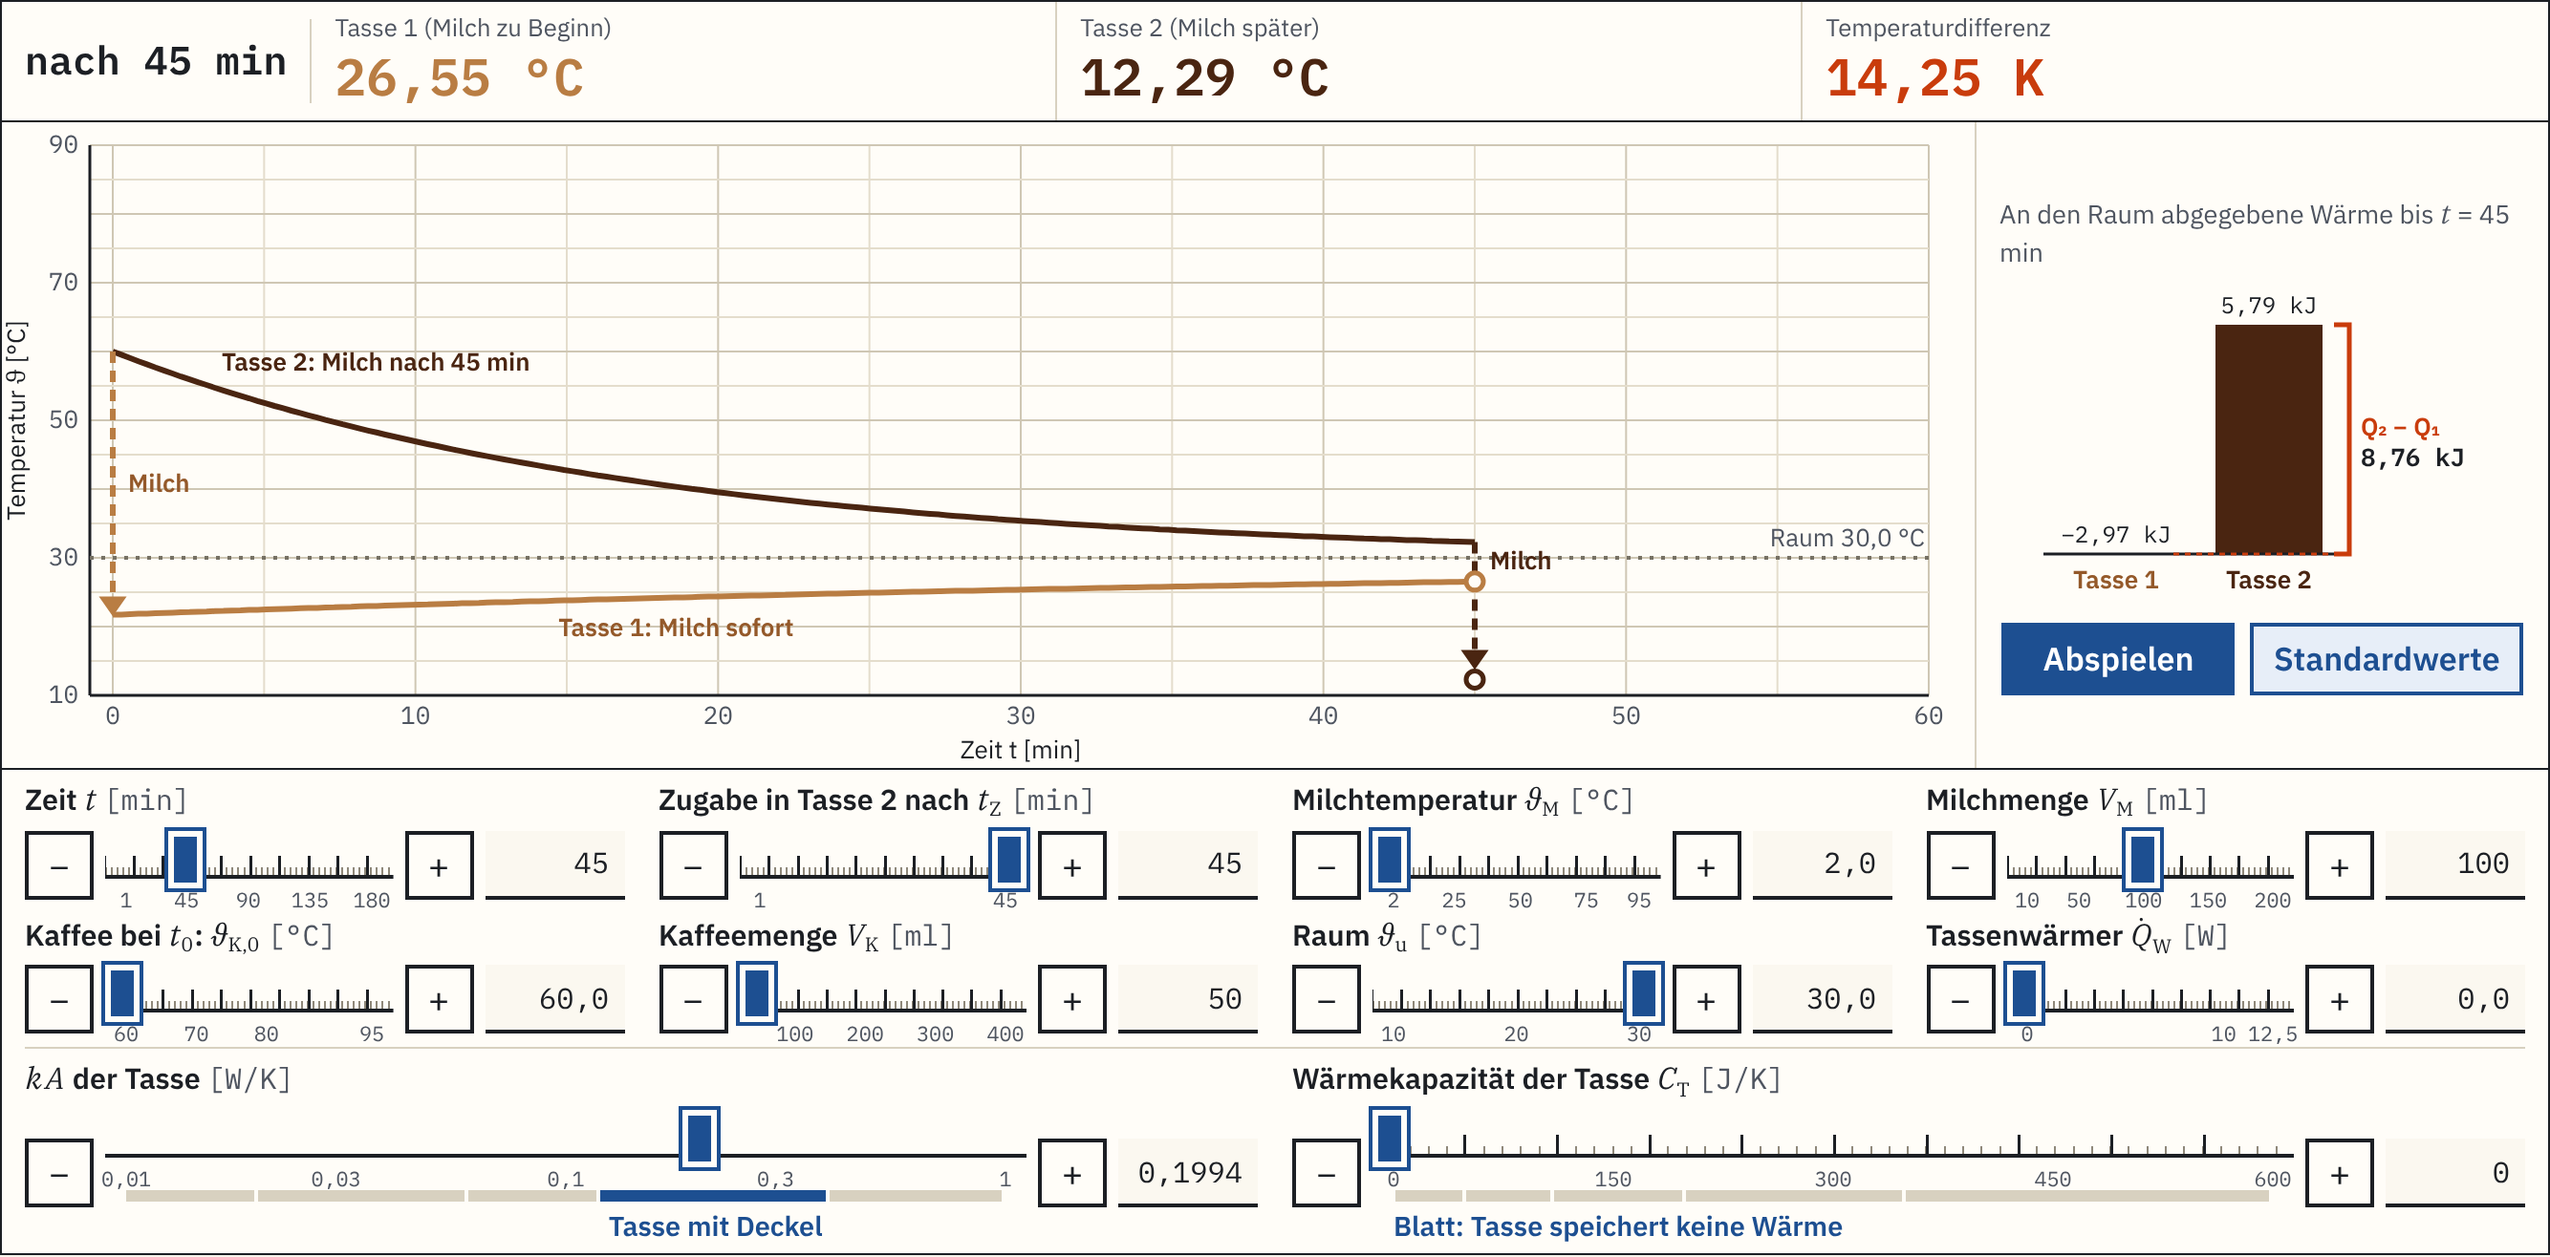
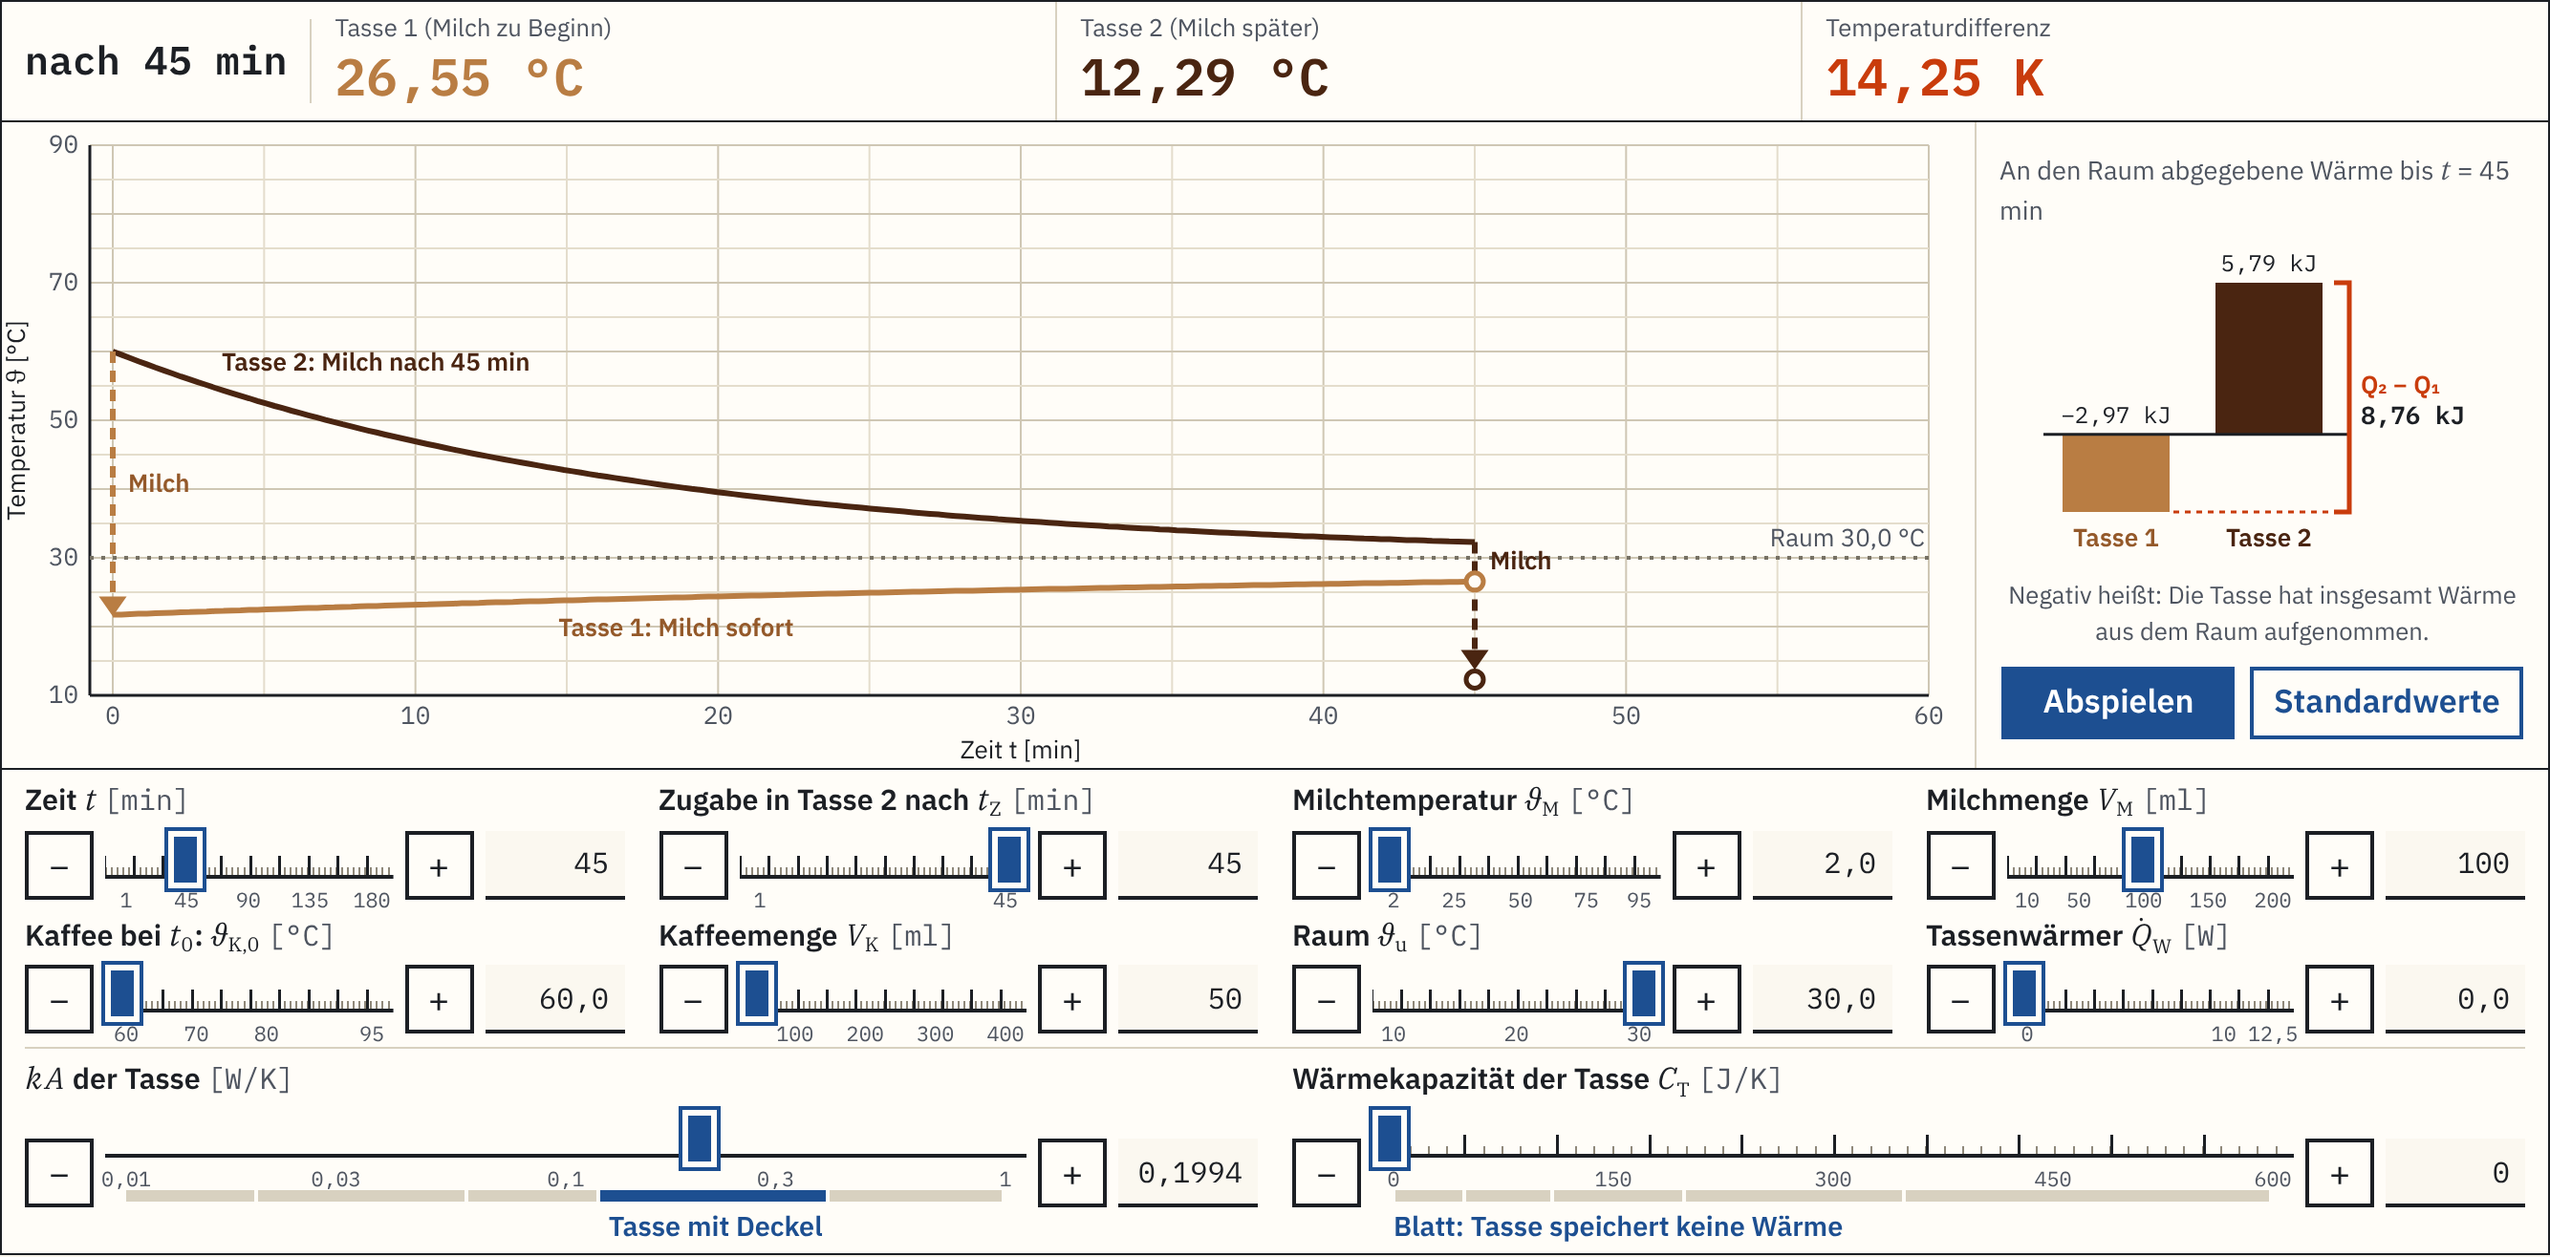
Auftrag X7 für Codex (A-03), Stand der Befunde, Prüfergebnisse nach der Behebung
Claude-Session: https://claude.ai/code/session_01UnQJX4uf26HSTfRupVuUQG

Changed region(s): [[0.7777, 0.3116, 0.9955, 0.5919], [0.7777, 0.1246, 0.9644, 0.2804]]

diff --git a/simulation/X7_AUFTRAG.md b/simulation/X7_AUFTRAG.md
@@ -1,0 +1,75 @@
+# Auftrag für Codex: unabhängige Prüfung der schlanken Kaffee-Simulation (Rolle X7)
+
+> Für Codex (OpenAI). Startsatz der TL: „Prüfe die schlanke Kaffee-Simulation nach simulation/X7_AUFTRAG.md (Rolle X7).“ Geschrieben von Claude am 12.11.2026 nur mit Fakten (Ziel, Modell, Prüfwerte, Entscheidungen der TL, Abnahmekriterien), ohne eigene Bewertung. Deutsch. Keine Gedankenstriche (weder Halbgeviert- noch Geviertstrich), stattdessen Komma, Punkt, Doppelpunkt oder Klammern.
+
+## 1 Geprüfter Stand
+
+Zweig `claude/aufarbeitung-befunde` (vorher `git fetch origin claude/aufarbeitung-befunde`, dann `git checkout claude/aufarbeitung-befunde`). Notiere den Commit (`git rev-parse HEAD`) und den SHA-256 von `simulation/minimal/Kaffee_Simulation_schlank.html`; beides gehört in den Bericht. Arbeite auf einem eigenen Zweig (zum Beispiel `codex/x7-schlank`) und öffne am Ende einen Pull Request nach `main`, der nur neue Dateien enthält (Bericht und Skripte). Nichts veröffentlichen.
+
+## 2 Ziel der Seite
+
+Die schlanke Seite ersetzt seit dem 12.11.2026 (Sites-Version 4 und 5) unter `waermeuebertragung-kaffee` die bisherige Simulation; der QR-Code auf dem Blatt von Tutorium 5 führt dorthin. Sie zeigt ohne Fragen und mit wenig Text, wie sich zwei Tassen Kaffee abkühlen: Tasse 1 bekommt die Milch sofort, Tasse 2 nach $t_\mathrm{Z}$. Kasten mit den Temperaturen und der Differenz, Diagramm, Säulen der an den Raum abgegebenen Wärme, „Abspielen“, zehn Regler, Deutsch und Englisch, eine Datei ohne Netz.
+
+## 3 Was du liest
+
+- die Seite `simulation/minimal/Kaffee_Simulation_schlank.html`; die Quellen `simulation/minimal/src/`, das Bauskript `simulation/minimal/bauen_minimal.py` und was es aus `simulation/site/src/` übernimmt (`modell.js`, `stil.css`, Texte, Bausteine aus `oberflaeche.js`)
+- das Modell des Blatts `simulation/modell/kaffee_modell.py` und die Werte `simulation/modell/werte.py`
+- `simulation/minimal/LIESMICH.md`, `simulation/AENDERUNG_2026-11-11.md` (Entscheidungen der TL), `simulation/minimal/QUELLEN_Vergleichswerte.md`
+- **erst am Ende**, zum Vergleich mit deinen eigenen Prüfungen: `simulation/tests/minimal_test.js` und `simulation/aufarbeitung/` (Prüfskripte und Haltepunkt der Aufarbeitung durch Claude)
+
+## 4 Modell der schlanken Seite (Festlegung)
+
+| Teil | Festlegung |
+|:--|:--|
+| Bilanz je Tasse | $C\,\mathrm{d}\vartheta/\mathrm{d}t = -kA\,(\vartheta - \vartheta_u) + \dot Q_\mathrm{W}$, gleiches $kA$ und gleicher Tassenwärmer $\dot Q_\mathrm{W}$ für beide Tassen |
+| Wärmekapazitäten | $C_K = \rho_K V_K c_{p,K} + C_\mathrm{T}$, $C_M = \rho_M V_M c_{p,M}$, $C_G = C_K + C_M$; die Tasse hat immer die Temperatur ihres Inhalts |
+| Tasse 1 | Mischung bei $t = 0$ ohne Verlust, danach Abkühlung mit $C_G$ |
+| Tasse 2 | Abkühlung mit $C_K$ bis $t_\mathrm{Z}$, Mischung ohne Verlust, danach Abkühlung mit $C_G$ bis $t$ |
+| abgegebene Wärme | $Q_i(t) = \int_0^t kA\,(\vartheta_i - \vartheta_u)\,\mathrm{d}t$ |
+| Regler | $t$ 1 bis 180 min; $t_\mathrm{Z}$ 1 bis $t$; Milch 2 bis 95 °C und 10 bis 200 ml; Kaffee 60 bis 95 °C und 50 bis 400 ml; Raum 10 bis 30 °C; $kA$ 0,01 bis 1 W/K (logarithmisch); $C_\mathrm{T}$ 0 bis 600 J/K; $\dot Q_\mathrm{W}$ 0 bis 35 W, höchstens so viel, dass $\vartheta_u + \dot Q_\mathrm{W}/kA \le$ 95 °C |
+| Stoffwerte | wie Blatt: $\rho_K$ = 1000 kg/m³, $c_{p,K}$ = 4180 J/(kg K), $\rho_M$ = 1030 kg/m³, $c_{p,M}$ = 3940 J/(kg K) |
+
+## 5 Prüfwerte (Werte des Blatts, aus `werte.py`)
+
+| Größe | Wert |
+|:--|:--|
+| kA aus 72 °C nach 10 min | 0,1994 W/K |
+| $C_G$ | 1241,8 J/K |
+| nach 45 min: Tasse 1, Tasse 2 | 43,01 °C; 36,31 °C |
+| Temperaturdifferenz | 6,69 K |
+| abgegebene Wärme $Q_1$, $Q_2$, $Q_2 - Q_1$ | 15,50 kJ; 23,82 kJ; 8,31 kJ |
+
+Weitere Werte (Tassenwärmer, Wärmekapazität der Tasse, $t > t_\mathrm{Z}$) rechnest du selbst.
+
+## 6 Entscheidungen der TL, die die Seite betreffen
+
+- Seite ohne Fragen, wenig Text, Stil der bisherigen Seite; Säulen der abgegebenen Wärme neben der Kurve; „Abspielen“ bleibt; alle Regler sichtbar, nicht ausklappbar (11. und 12.11.2026).
+- Kopf: „Tasse 1 (Milch zu Beginn)“, „Tasse 2 (Milch später)“, „Temperaturdifferenz“; Knopf „Standardwerte“; Tasse 1 hellbraun, Tasse 2 dunkelbraun durchgezogen, Differenz rotorange.
+- Zeit bis 180 min unabhängig von der Zugabe, Zugabe höchstens $t$; Tasse 2 kühlt nach der Milch weiter ab.
+- Milch bis 95 °C; Regler für Kaffeemenge, Wärmekapazität der Tasse und Tassenwärmer (bis 35 W).
+- $kA$ logarithmisch; Alltagsvergleiche für $kA$ und $C_\mathrm{T}$ aus recherchierten Werten, als Band unter der Skala (Variante 3).
+- Am 12.11.2026 nach der Aufarbeitung (Wortlaut der TL: „A01 gerne beheben und wenns sinn ergibt auch gern in einem rutsch A02 bis A04 auch noch erledigen“): Grenzen des Diagramms aus allen gezeichneten Werten; Säulen mit Nulllinie, negative Wärme zeigt nach unten, darunter ein Hinweissatz.
+
+## 7 Abnahmekriterien
+
+1. Alle Zahlen der Seite (Kasten, Säulen, Bildbeschreibung, Ansage) stimmen mit dem Modell aus Abschnitt 4 überein (relative Abweichung unter 1e-9), auch beim Abspielen und an den Grenzen der Regler.
+2. Das Modell aus Abschnitt 4 ist physikalisch richtig umgesetzt; wo die Festlegung selbst fragwürdig ist, sagst du es.
+3. Alles Gezeichnete liegt im Diagramm; Säulen, Klammer und Zahlen passen zueinander, auch bei negativer Wärme.
+4. Kein Wert über 95 °C durch den Tassenwärmer.
+5. Alltagsvergleiche: Bereiche passen zu den Quellen (mindestens drei Quellen selbst öffnen).
+6. Deutsch und Englisch gleichwertig; axe-core ohne Verstoß (WCAG 2.2 A und AA); Tastatur; 390 × 844, 1366 × 768, 1280 × 720 ohne waagerechtes Scrollen, am Beamer alle Regler ohne Bildlauf.
+7. Eine Datei; keine Netzanfragen, kein Speicher; Inhaltssicherheitsrichtlinie wirksam.
+8. `python3 simulation/minimal/bauen_minimal.py --pruefen` gibt „gleich“ aus; zwei Bauten sind bytegleich.
+
+## 8 Prüffragen
+
+1. **Physik:** Leite die Lösung für beide Tassen mit Tassenwärmer und Tassenwärmekapazität selbst her. Ist $Q_i = \dot Q_\mathrm{W}\,t + C\,(\vartheta_\text{Start} - \vartheta_i)$ (stückweise) richtig? Gilt $Q_2 - Q_1 = C_G(\vartheta_1 - \vartheta_2)$ nach der Zugabe?
+2. **Zahlen:** eigenes Skript, das weder `kaffee_modell.py` noch den Skriptteil der Seite importiert. Vergleiche mit der Seite (im Browser oder den Rechenteil in Node) bei den Werten des Blatts und an mindestens 20 eigenen Einstellungen, auch an allen Reglergrenzen und mit $t > t_\mathrm{Z}$.
+3. **Darstellung:** Bildschirmfotos ansehen, auch bei Extremeinstellungen (zum Beispiel wenig Kaffee, viel kalte Milch, warmer Raum; starker Tassenwärmer bei großem $kA$). Stimmen Diagramm, Säulen, Kasten und Bildbeschreibung zueinander?
+4. **Bedienung:** Playwright oder ein anderer Browser ohne Internetzugriff, in beiden Sprachen: Regler (Ziehen, Plus und Minus, Zahlenfeld mit Komma und Punkt, Tastatur), Abspielen und Anhalten, Standardwerte, Neuladen.
+5. **Sprache:** verständlich für das dritte Semester, keine Gedankenstriche, Formelzeichen wie im Blatt.
+6. **Vergleich am Ende:** Wo weichen deine Ergebnisse von `simulation/tests/minimal_test.js` und `simulation/aufarbeitung/` ab, und wer hat recht?
+
+## 9 Ergebnis
+
+Bericht nach `simulation/X7_CODEX_PRUEFUNG.md`: geprüfter Stand (Commit, SHA-256), Urteil (veröffentlichungsfähig, mit Änderungen, nicht veröffentlichungsfähig), Tabelle der Abnahmekriterien mit Ergebnis, dann Befunde nach Wichtigkeit (blocker, high, medium, low) mit Stelle, Beleg und Vorschlag, nummeriert „X7-01“, „X7-02“, … Skripte und Bilder nach `simulation/x7_skripte/`. Nichts an Seite, Quellen, Tests oder Texten ändern. Pull Request nach `main` mit Bericht und Skripten; gemergt wird von der TL.

diff --git a/simulation/aufarbeitung/HALTEPUNKT.md b/simulation/aufarbeitung/HALTEPUNKT.md
@@ -208,3 +208,17 @@ Bericht: dieselben Abschnitte wie dieser Haltepunkt, ausführlicher, mit den 8 E
 | 2 | A-01 vor der Präsentation beheben (eigener Pull Request, neue Veröffentlichung)? | ja, dann zeigt Folie 11 „gefunden und behoben“ |
 | 3 | Gegenprüfung durch Codex (A-03)? | ja; ich schreibe den Auftrag, du startest ihn |
 | 4 | Bericht als Claude-Dokument (Docs) und Präsentation als Folien (Slides)? | ja, beide als Artefakt, als PDF und PowerPoint exportierbar |
+
+## 9 Stand der Befunde (12.11.2026, nachmittags)
+
+Entscheidung der TL: „A01 gerne beheben und wenns sinn ergibt auch gern in einem rutsch A02 bis A04 auch noch erledigen. Gegenprüfung gerne machen.“ Umgesetzt auf dem Zweig `claude/aufarbeitung-befunde`.
+
+| ID | Stand | Beleg |
+|:--|:--|:--|
+| A-01 | behoben: Grenzen des Diagramms aus allen gezeichneten Werten (Start, Zugabe, t). Dabei zeigte sich dasselbe nach oben: Mit starkem Tassenwärmer (kA 0,3 W/K, Raum 30 °C, 19,5 W, 180 min) lag Tasse 1 bei 92,09 °C über dem oberen Rand (90 °C), die Kurve ragte 7,5 px hinaus; auch das ist behoben. | `schlank.js` in `zeichne()`; neuer Test in `minimal_test.js` (beide Fälle); `a4_browser.js` jetzt 15 von 15; Bilder `vorher_A01_kurve_unter_achse.png` und `fall_kurve_unter_achse.png` |
+| A-02 | behoben: Säulen mit Nulllinie, negative Wärme zeigt nach unten, Klammer so lang wie Q₂ − Q₁, darunter „Negativ heißt: Die Tasse hat insgesamt Wärme aus dem Raum aufgenommen.“ Maßstab aus dem ganzen Bereich 0 bis t. Die Bildschirmleser-Beschriftung sagt jetzt „bis t min“ statt „bis zur Zugabe“. | `saeulen()` steht jetzt in `schlank.js` (nicht mehr als Baustein übernommen); neuer Test in `minimal_test.js`; Bilder `vorher_A02_negative_waerme.png` und `fall_mischung_kaelter_als_raum.png` |
+| A-03 | Auftrag geschrieben: `X7_AUFTRAG.md`, Abschnitt in `AGENTS.md`; Start durch die TL in Codex | |
+| A-04 | erledigt: Nachweise von Codex zu Sites-Version 3, 4 und 5 auf diesen Zweig übernommen (Merge der Codex-Zweige, Abschnitte nacheinander); Live-Abnahme Version 5 in `LIVE_ABNAHME.md` nachgetragen (Einzelergebnisse nur im Chatverlauf, daher INFERRED) | `VEROEFFENTLICHUNG_NACHWEIS.md`, `LIVE_ABNAHME.md` |
+| A-05 bis A-10 | offen | |
+
+Tests auf diesem Stand: `minimal_test.js` 63 von 63, `test_kern.py` und `test_texte.py` bestanden, `a2_vergleich.py` und `a3_physik.py` unverändert bestanden, `a4_browser.js` 15 von 15, Bau bytegleich. Neue Fassung der Seite: Fuß „Stand 2026-11-12 · Version 0b2ce1d937“, SHA-256 `19a64074…5c71`; noch nicht veröffentlicht.

diff --git a/simulation/minimal/LIESMICH.md b/simulation/minimal/LIESMICH.md
@@ -6,7 +6,7 @@ Auftrag der TL vom 11.11.2026: das Simulationstool ohne Fragen und mit viel weni
 |:--|:--|
 | Rechenkern, Standardwerte | `site/src/modell.js`, unverändert; `schlank.js` rechnet darauf auf: Tasse mit Wärmekapazität $C_\mathrm{T}$ (immer so warm wie der Inhalt, wie `kaffee_modell.zwei_tassen`), Kaffeemenge, Abkühlung von Tasse 2 nach der Zugabe bis zur Zeit $t$. Bei $C_\mathrm{T}$ = 0 und $t = t_\mathrm{Z}$ gleiche Zahlen wie die Hauptseite. |
 | Optik | `site/src/stil.css`, unverändert; dazu `src/schlank.css` nur für die Anordnung |
-| Regler, Säulen, Hilfsfunktionen | Bausteine aus `site/src/oberflaeche.js`, beim Bau unverändert übernommen (Liste `BAUSTEINE`); Diagramm, Kasten und Regleranzeige in `schlank.js` im Aufbau der Hauptseite |
+| Regler, Hilfsfunktionen | Bausteine aus `site/src/oberflaeche.js`, beim Bau unverändert übernommen (Liste `BAUSTEINE`); Diagramm, Kasten, Säulen und Regleranzeige in `schlank.js` im Aufbau der Hauptseite. Die Säulen haben seit 12.11.2026 eine Nulllinie: Nimmt eine Tasse insgesamt Wärme aus dem Raum auf, zeigt ihre Säule nach unten (Befund A-02 der Aufarbeitung). Die Grenzen des Diagramms richten sich nach allen gezeichneten Werten (Befund A-01). |
 | Texte DE und EN | `site/src/texte_*.txt`, dazu `src/texte_schlank_*.txt` |
 
 Regler: Zeit $t$ (1 bis 180 min), Zugabe in Tasse 2 (höchstens $t$), Milchtemperatur, Milchmenge, Kaffeetemperatur, Kaffeemenge, Raumtemperatur, Tassenwärmer $\dot{Q}_\mathrm{W}$ (0 bis 35 W in beide Tassen, höchstens so viel, dass $\vartheta_u + \dot{Q}_\mathrm{W}/kA \le$ 95 °C), $kA$, Wärmekapazität der Tasse. Der Kasten zeigt die Werte zum angezeigten Zeitpunkt (beim Abspielen laufend), die Säulen die an den Raum abgegebene Wärme bis dahin; es gilt immer $Q_2 - Q_1 = C_G\,(\vartheta_1 - \vartheta_2)$ nach der Zugabe.

diff --git a/AGENTS.md b/AGENTS.md
@@ -102,3 +102,9 @@ Nachprüfung nach der Korrekturrunde (ergänzt am 06.11.2026): Startsatz „Prü
 > Ergänzt von Claude am 08.11.2026 nach dem Startprompt Fassung 3 der Tutoriumsleitung (Schritt 4); die Regeln der Abschnitte oben bleiben unverändert.
 
 Startsatz: „Prüfe die Kaffee-Simulation Fassung 3 nach simulation/X6_AUFTRAG.md (Rolle X6).“ Die vollständige Anweisung (geprüfter Stand, Prüfwerte, Entscheidungen der Tutoriumsleitung, Abnahmekriterien, Prüffragen, Bericht `simulation/X6_CODEX_PRUEFUNG.md`) steht in `simulation/X6_AUFTRAG.md`. Eigener Zweig, kein Pull Request.
+
+# Achter Auftrag: Prüfung der schlanken Kaffee-Simulation (Rolle X7)
+
+> Ergänzt am 12.11.2026 nach der Aufarbeitung des Simulationscodes (Befund A-03: die Erweiterungen der schlanken Seite hatten noch keine unabhängige Prüfung).
+
+Startsatz: „Prüfe die schlanke Kaffee-Simulation nach simulation/X7_AUFTRAG.md (Rolle X7).“ Die vollständige Anweisung (geprüfter Stand, Modell, Prüfwerte, Entscheidungen der Tutoriumsleitung, Abnahmekriterien, Prüffragen, Bericht `simulation/X7_CODEX_PRUEFUNG.md`) steht in `simulation/X7_AUFTRAG.md`. Eigener Zweig, Pull Request nur mit Bericht und Skripten.

diff --git a/simulation/aufarbeitung/LIESMICH.md b/simulation/aufarbeitung/LIESMICH.md
@@ -26,6 +26,8 @@ Die Ausgaben der vorhandenen Tests vom selben Tag liegen ebenfalls in `ergebniss
 | a1 | alle Werte des Blatts bestätigt |
 | a2 | alle Vergleiche innerhalb der Grenzen (größte Abweichung gegen die Differentialgleichung 6,7·10⁻¹¹ K) |
 | a3 | 10 von 10 |
-| a4 | 14 von 15; Fehler: Kurve unter der Achse in einer Extremeinstellung (Befund A-01) |
-| a5 | bytegleich, gleich Sites-Version 5 |
-| vorhandene Tests | 34/34, 16/16, 107/107, 57/57 |
+| a4 | 14 von 15; Fehler: Kurve unter der Achse in einer Extremeinstellung (Befund A-01). Nach der Behebung (Zweig `claude/aufarbeitung-befunde`): 15 von 15 |
+| a5 | bytegleich, gleich Sites-Version 5; nach der Behebung bytegleich, neue Fassung noch nicht veröffentlicht |
+| vorhandene Tests | 34/34, 16/16, 107/107, 57/57; nach der Behebung `minimal_test.js` 63/63 |
+
+Bilder `vorher_A01_…` und `vorher_A02_…` zeigen den Stand vor der Behebung, die übrigen Bilder den aktuellen Stand.
